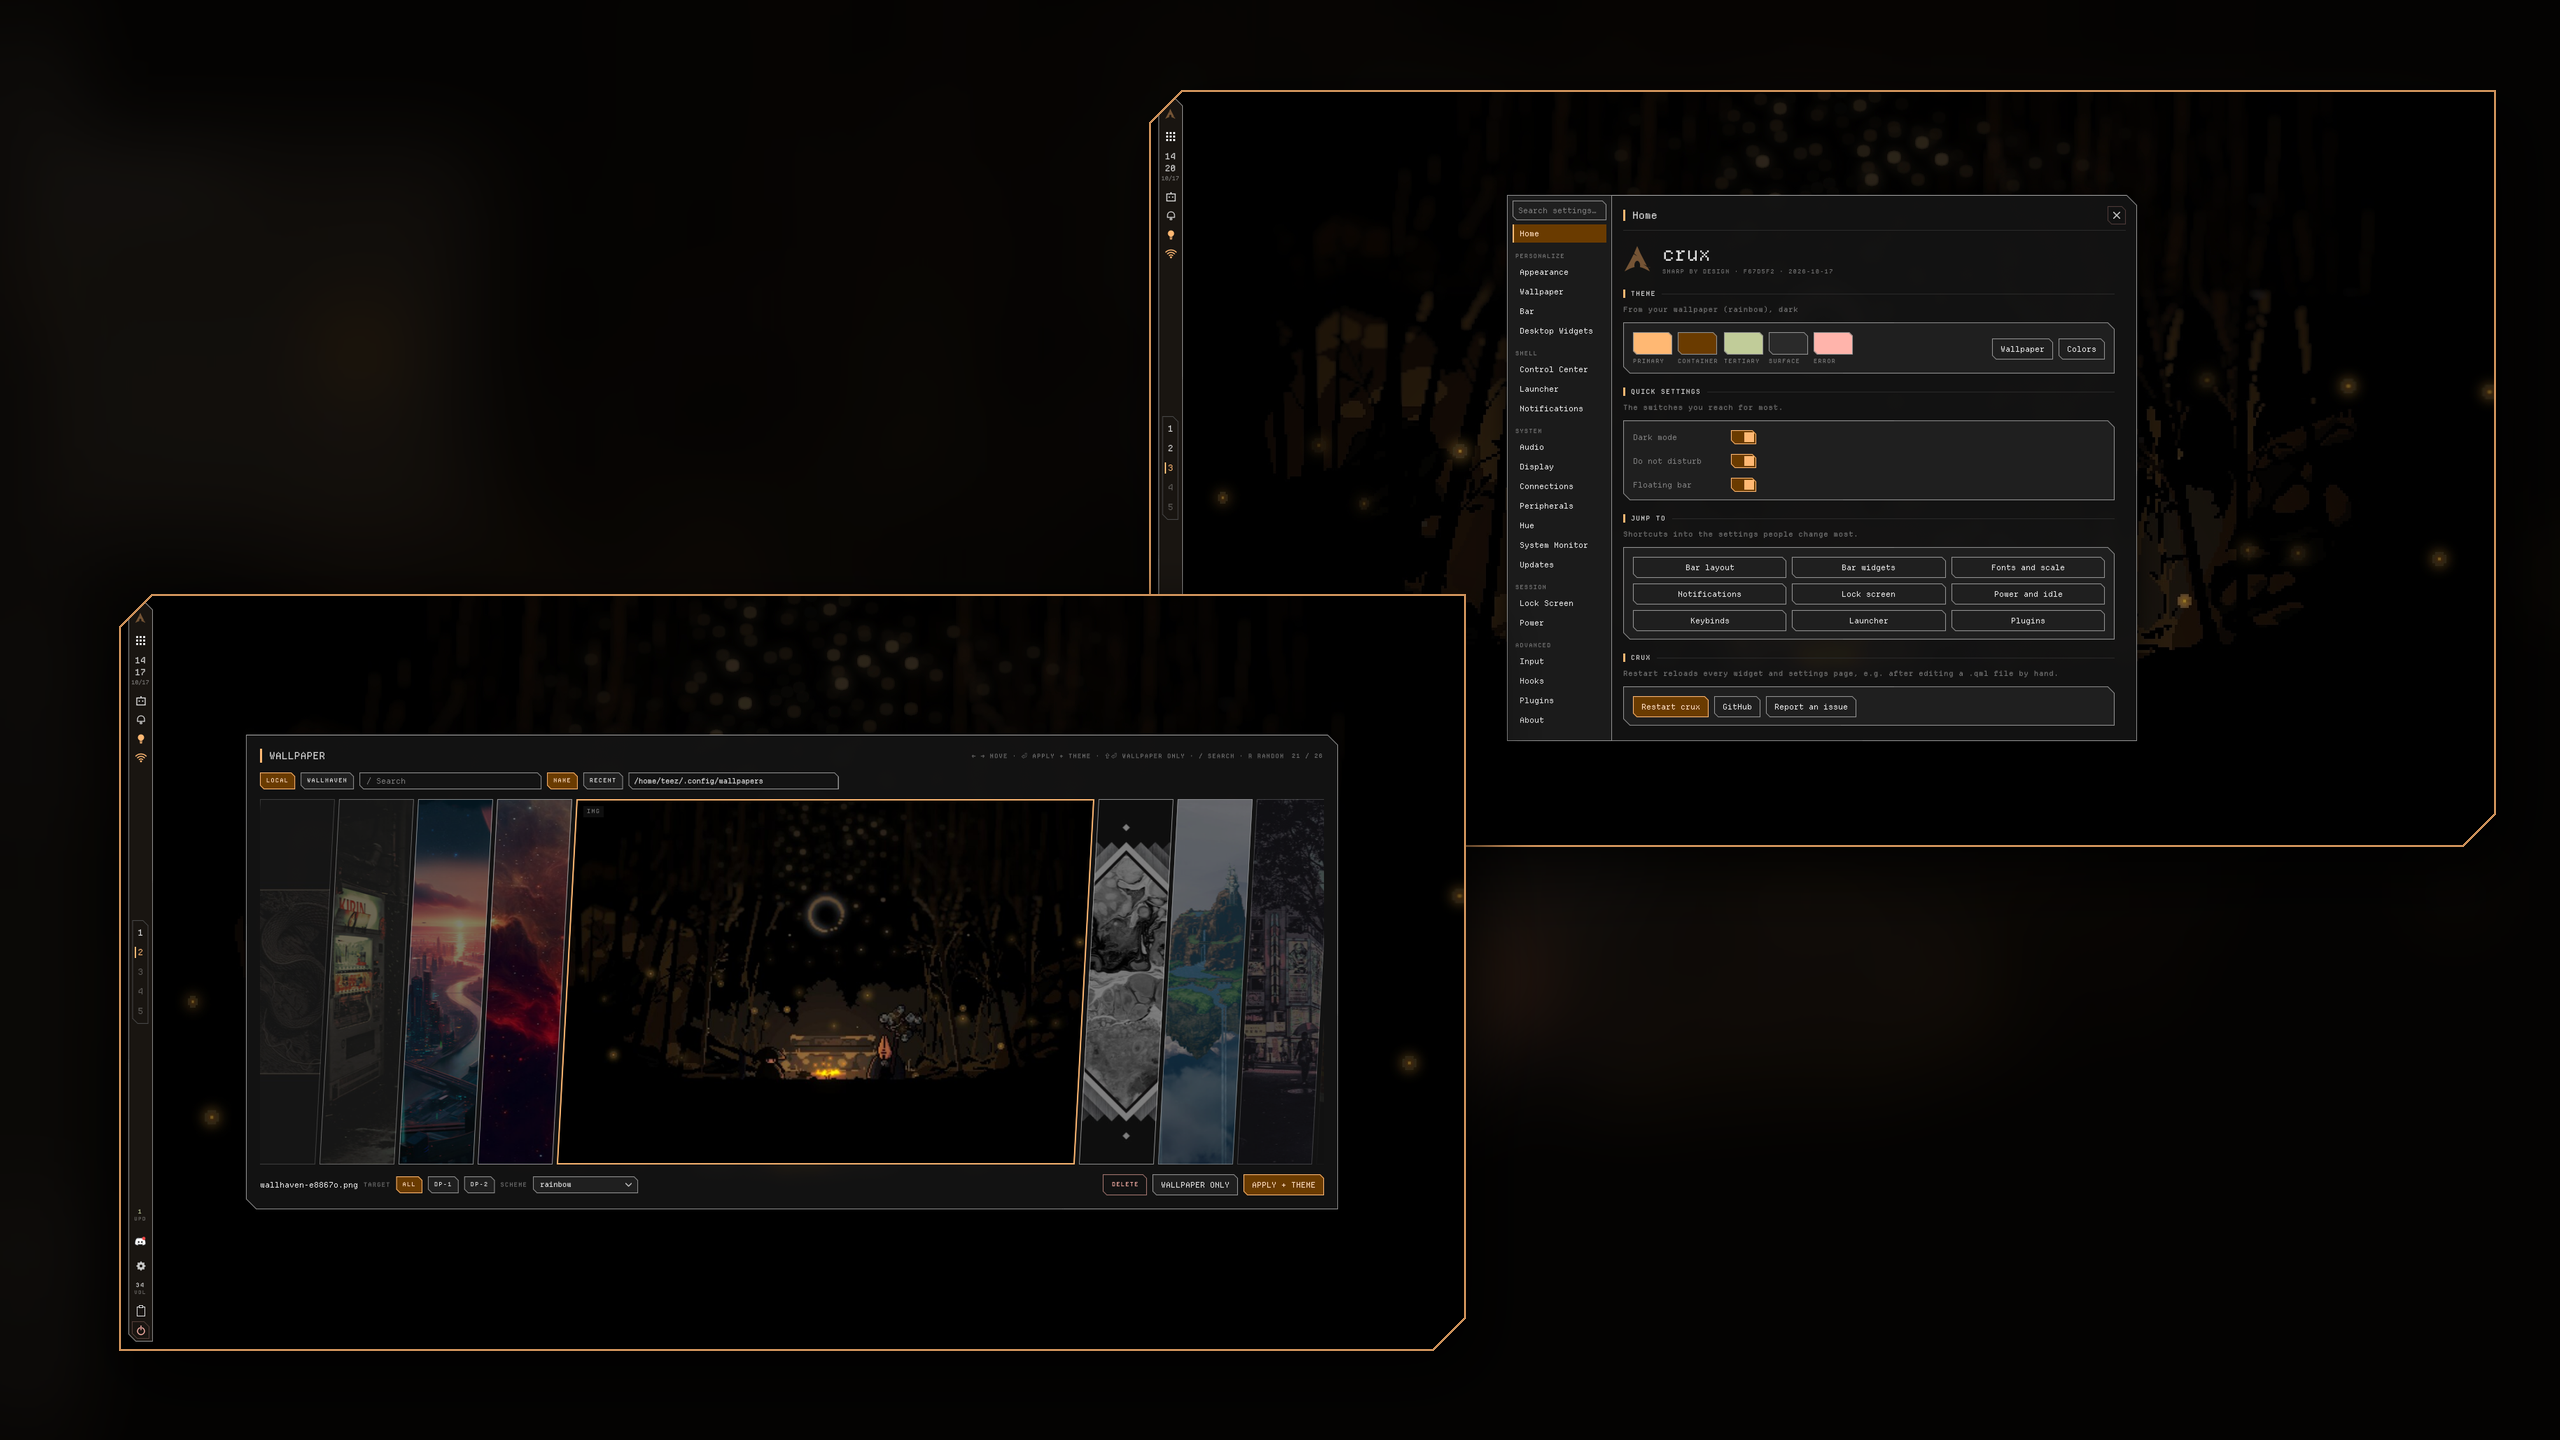
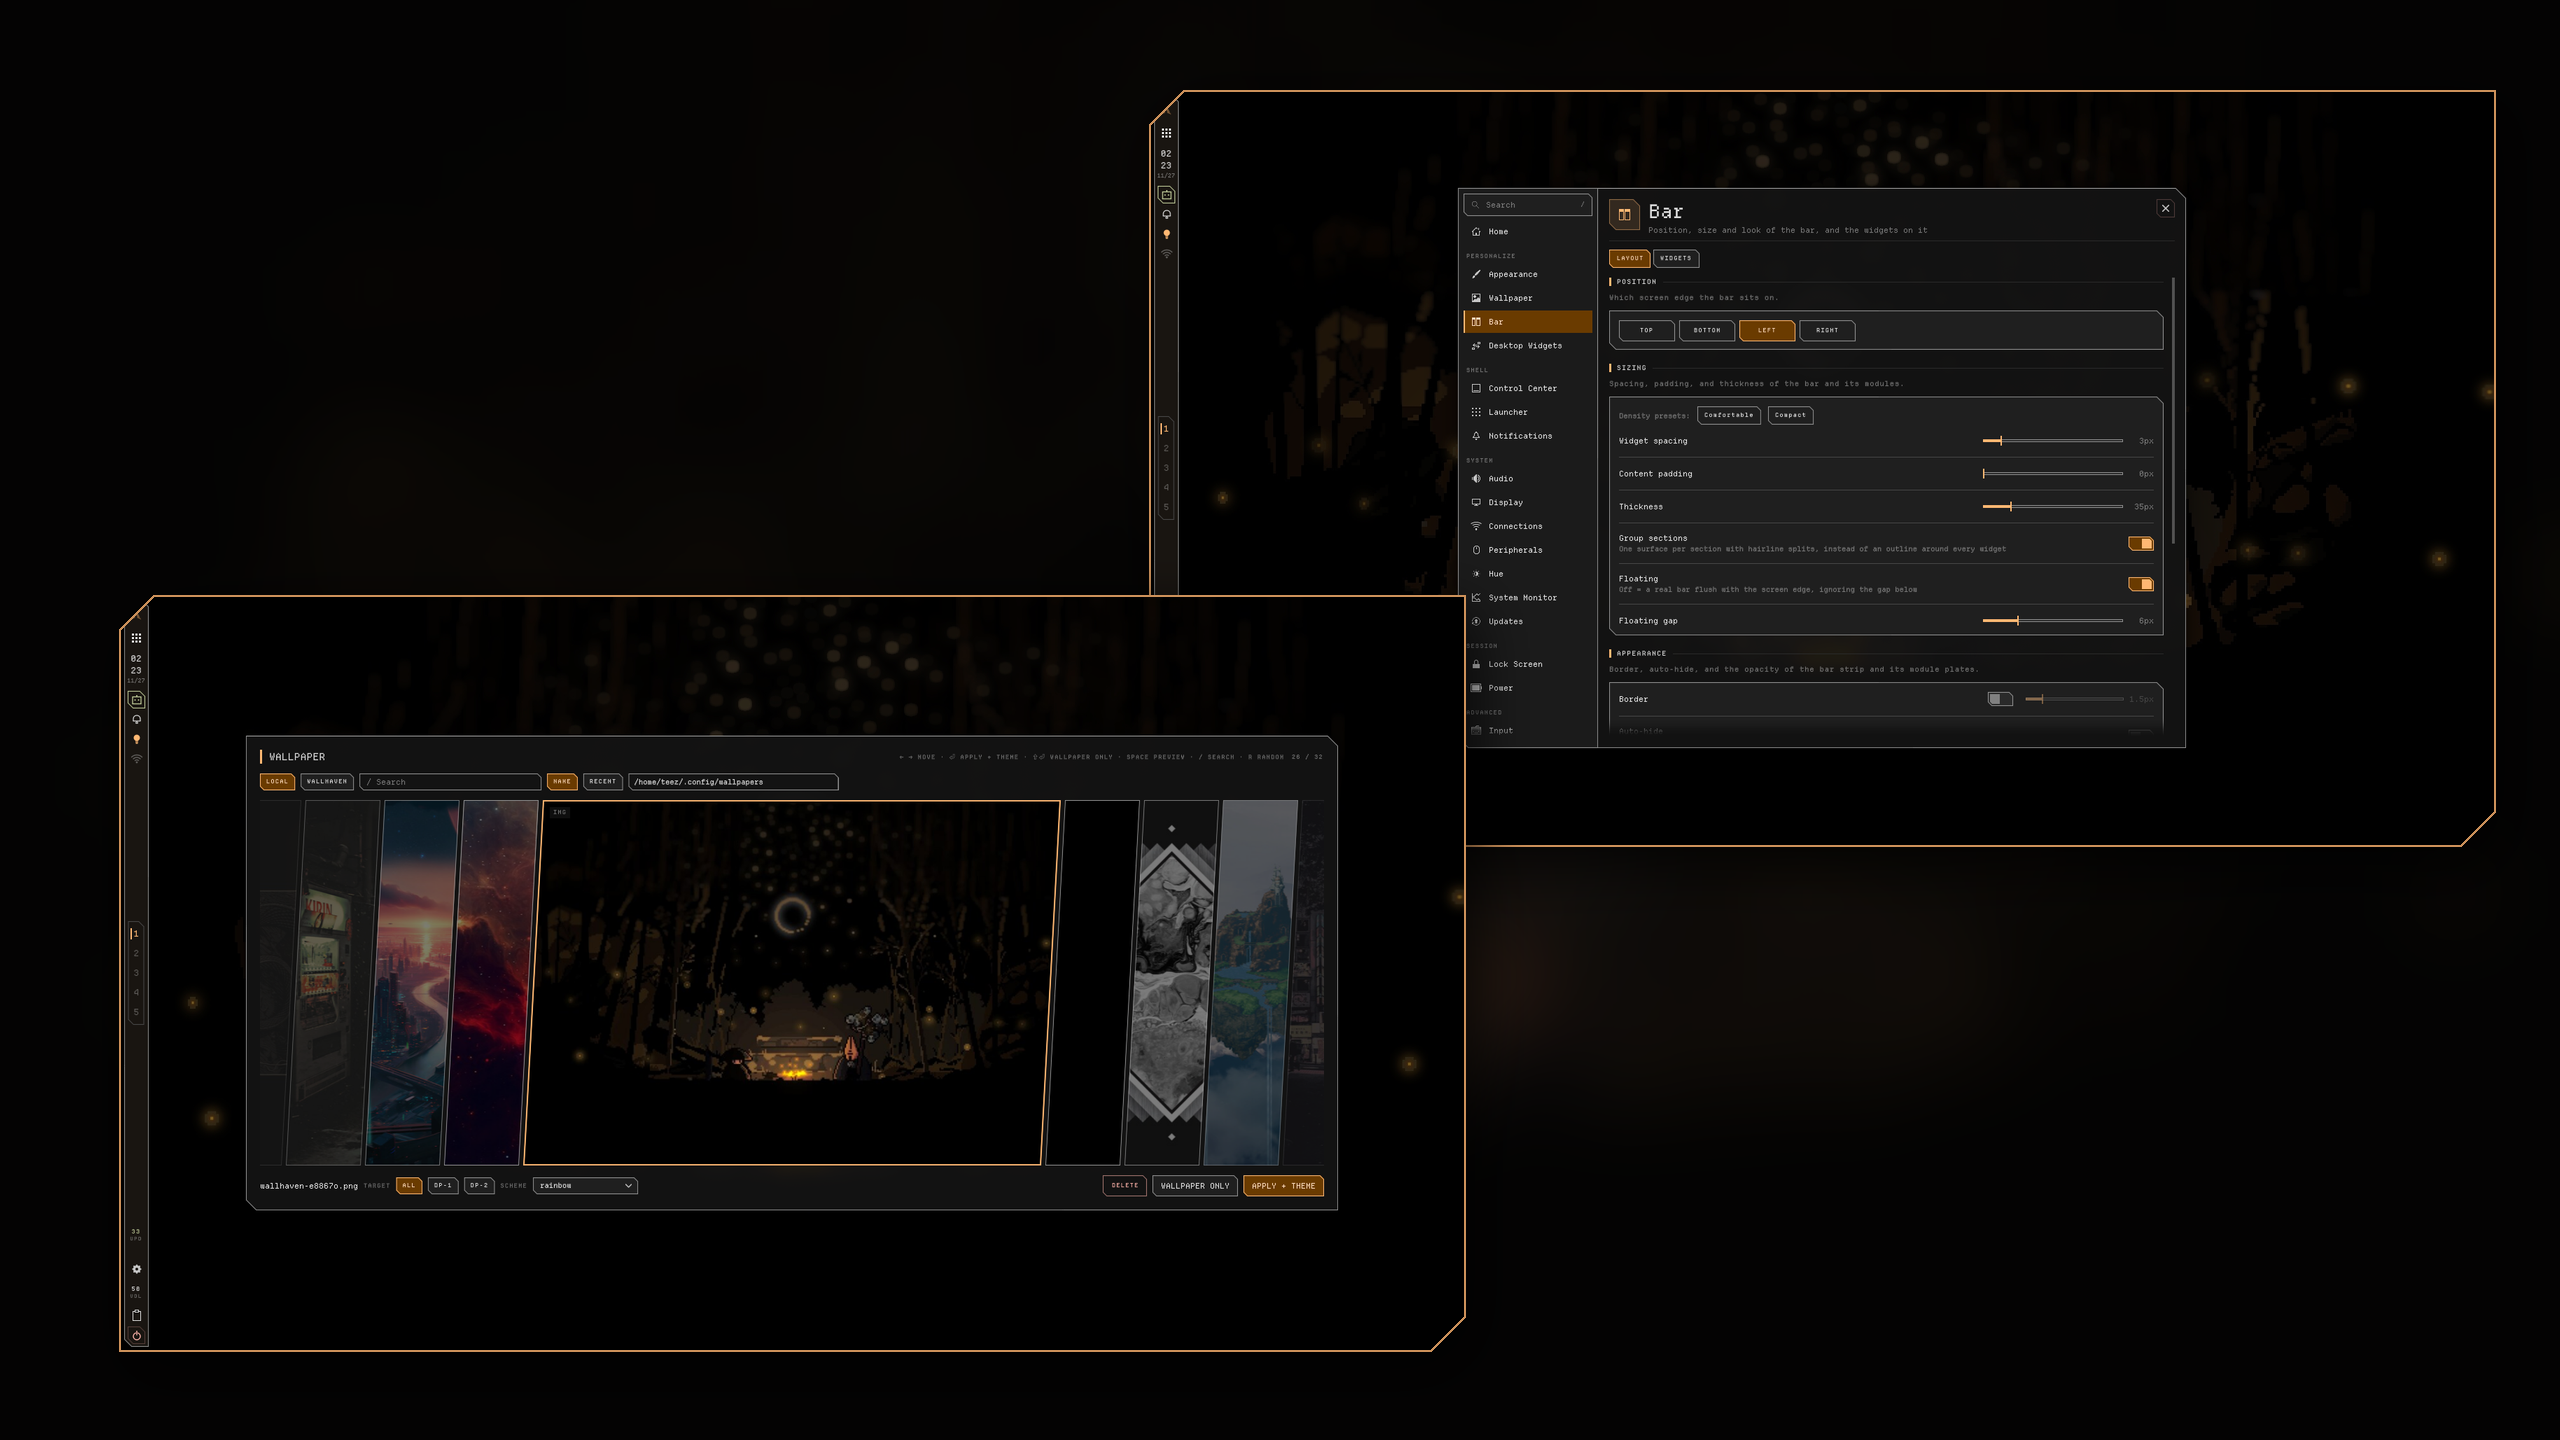
refresh the readme screenshots and features for the new control center, weather and settings

diff --git a/README.md b/README.md
@@ -17,7 +17,7 @@
 > This is my personal daily driver. It changes under me without warning, and every corner gets chamfered whether you like it or not.
 
 > [!TIP]
-> Everything's configurable from the settings panel: a home page with your theme, quick toggles and shortcuts, 20 tabs in five sections, and a search box so you don't have to remember where anything lives.
+> Everything's configurable from the settings panel: a home page with your theme, quick toggles and shortcuts, 20 tabs in five sections, and a search box (press `/`) so you don't have to remember where anything lives.
 
 ## Features
 
@@ -29,7 +29,9 @@
 - A wallpaper backdrop behind the bar hides windows that a scrolling layout parks off-screen, fading out toward the work area
 
 **Desktop**
-- Control Center with quick toggles, audio sliders, weather, system gauges, and capture, record and color-pick actions
+- Control Center with labelled toggle tiles (Wi-Fi, Bluetooth, mic, night light, do not disturb, game mode, Tailscale and more), shortcuts for screenshot, screen recording, color picker, clipboard, wallpaper and lock, audio and brightness rows, a media player, weather and system gauges, a homelab status card and your latest notifications
+- Weather popup with a 24-hour temperature curve, rain chances and the week's ranges, from Open-Meteo with no API key
+- Game mode turns off Hyprland's animations, blur and shadows and switches to the performance profile, then puts everything back
 - App launcher with fuzzy search, a run-command prefix and an inline calculator (press Enter to copy the result)
 - Notifications with history and do-not-disturb, a volume OSD, a session menu
 - Lock screen, polkit agent and idle handling (screen off, lock, suspend), all built in
@@ -43,7 +45,9 @@
 - Windows get chamfered corners to match, through Hyprland shader overrides. Pick which corners are cut in Appearance settings
 
 <div align="center">
-<img src=".github/screenshot-2.png" alt="the wallpaper browser's slice strip, and the settings panel's home page" width="800">
+<img src=".github/screenshot-3.png" alt="the weather popup with its 24-hour curve and 7-day ranges, and the Control Center with toggle tiles, shortcuts, audio, weather, stats and the homelab card" width="800">
+<br><br>
+<img src=".github/screenshot-2.png" alt="the wallpaper browser's slice strip, and the settings panel's Bar page with its icon sidebar" width="800">
 </div>
 
 ## Requirements
@@ -153,7 +157,7 @@ Settings live in `~/.config/crux/settings.json`, but you shouldn't need to touch
 
 ## License
 
-GPL-3.0-or-later. See [`LICENSE`](LICENSE).
+GPL-3.0-or-later. See [`LICENSE`](LICENSE). The bundled icon font, Material Symbols Rounded, is Google's under Apache-2.0; its licence is in [`Assets/Fonts`](Assets/Fonts).
 
 <div align="center">
 
